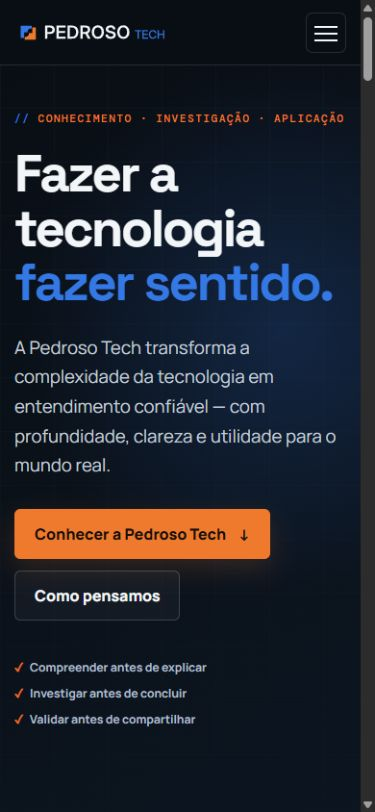
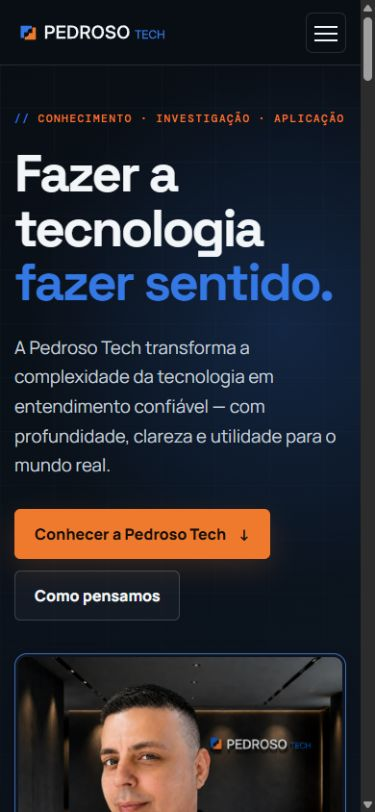
Polish responsive institutional portrait

Changed region(s): [[0.0293, 0.8005, 0.9387, 1.0]]

diff --git a/index.html b/index.html
@@ -3,19 +3,19 @@
 <meta charset="utf-8"><meta name="viewport" content="width=device-width, initial-scale=1">
 <title>Pedroso Tech | Tecnologia que faz sentido</title>
 <meta name="description" content="A Pedroso Tech transforma a complexidade da tecnologia em entendimento confiável, com investigação, conhecimento aplicado e recursos úteis."><meta name="author" content="Pedroso Tech"><meta name="theme-color" content="#090E14"><meta name="color-scheme" content="dark"><link rel="canonical" href="https://pedrosotech.com.br/">
-<meta property="og:type" content="website"><meta property="og:locale" content="pt_BR"><meta property="og:site_name" content="Pedroso Tech"><meta property="og:title" content="Pedroso Tech | Tecnologia que faz sentido"><meta property="og:description" content="Entendimento tecnológico confiável, claro e útil."><meta property="og:url" content="https://pedrosotech.com.br/"><meta property="og:image" content="https://pedrosotech.com.br/assets/leandro-pedroso-lobby.jpg"><meta name="twitter:card" content="summary_large_image"><meta name="twitter:title" content="Pedroso Tech | Tecnologia que faz sentido"><meta name="twitter:description" content="Entendimento tecnológico confiável, claro e útil."><meta name="twitter:image" content="https://pedrosotech.com.br/assets/leandro-pedroso-lobby.jpg">
-<link rel="icon" href="assets/pedroso-tech-signature.svg" type="image/svg+xml"><link rel="manifest" href="site.webmanifest"><link rel="stylesheet" href="styles.css?v=20260817c"><link rel="stylesheet" href="fixes.css?v=20260817c">
+<meta property="og:type" content="website"><meta property="og:locale" content="pt_BR"><meta property="og:site_name" content="Pedroso Tech"><meta property="og:title" content="Pedroso Tech | Tecnologia que faz sentido"><meta property="og:description" content="Entendimento tecnológico confiável, claro e útil."><meta property="og:url" content="https://pedrosotech.com.br/"><meta property="og:image" content="https://pedrosotech.com.br/assets/leandro-pedroso-hero.jpg"><meta name="twitter:card" content="summary_large_image"><meta name="twitter:title" content="Pedroso Tech | Tecnologia que faz sentido"><meta name="twitter:description" content="Entendimento tecnológico confiável, claro e útil."><meta name="twitter:image" content="https://pedrosotech.com.br/assets/leandro-pedroso-hero.jpg">
+<link rel="icon" href="assets/pedroso-tech-signature.svg" type="image/svg+xml"><link rel="manifest" href="site.webmanifest"><link rel="stylesheet" href="styles.css?v=20260817c"><link rel="stylesheet" href="fixes.css?v=20260817d">
 <script type="application/ld+json">{"@context":"https://schema.org","@type":"Organization","name":"Pedroso Tech","url":"https://pedrosotech.com.br/","description":"Marca independente de tecnologia dedicada a transformar assuntos complexos em entendimento confiável.","sameAs":["https://github.com/leopedroso84","https://instagram.com/leopedrosotech","https://facebook.com/profile.php?id=61593232645749"]}</script>
 </head><body>
-<a class="skip-link" href="#conteudo">Pular para o conteúdo</a><header class="header" id="topo"><div class="container header-inner"><a class="brand" href="#inicio" aria-label="Pedroso Tech, página inicial"><img src="assets/pedroso-tech-signature.svg" width="260" height="48" alt="Pedroso Tech"></a><button class="menu-toggle" type="button" aria-expanded="false" aria-controls="menu"><span></span><span></span><span></span><span class="sr-only">Abrir menu</span></button><nav class="nav" id="menu" aria-label="Navegação principal"><a href="#marca">Marca</a><a href="#territorios">Territórios</a><a href="#metodo">Método</a><a href="#principios">Princípios</a><a href="#leandro">Leandro</a><a class="nav-cta" href="#contato">Contato</a></nav></div></header>
+<a class="skip-link" href="#conteudo">Pular para o conteúdo</a><header class="header" id="topo"><div class="container header-inner"><a class="brand" href="#inicio" aria-label="Pedroso Tech, página inicial"><img src="assets/pedroso-tech-signature.svg" width="260" height="48" alt="Pedroso Tech"></a><button class="menu-toggle" type="button" aria-expanded="false" aria-controls="menu"><span></span><span></span><span></span><span class="sr-only">Abrir menu</span></button><nav class="nav" id="menu" aria-label="Navegação principal"><a href="#inicio">Início</a><a href="#marca">Marca</a><a href="#territorios">Territórios</a><a href="#metodo">Método</a><a href="#principios">Princípios</a><a href="#leandro">Leandro</a><a class="nav-cta" href="#contato">Contato</a></nav></div></header>
 <main id="conteudo">
-<section class="hero" id="inicio"><div class="gridline" aria-hidden="true"></div><div class="container hero-layout"><div class="hero-copy reveal"><p class="eyebrow">CONHECIMENTO · INVESTIGAÇÃO · APLICAÇÃO</p><h1>Fazer a tecnologia <span>fazer sentido.</span></h1><p class="lead">A Pedroso Tech transforma a complexidade da tecnologia em entendimento confiável — com profundidade, clareza e utilidade para o mundo real.</p><div class="actions"><a class="button primary" href="#marca">Conhecer a Pedroso Tech <span>↓</span></a><a class="button ghost" href="#metodo">Como pensamos</a></div><ul class="notes"><li>Compreender antes de explicar</li><li>Investigar antes de concluir</li><li>Validar antes de compartilhar</li></ul></div><div class="hero-visual reveal"><div class="photo-frame"><picture><source srcset="assets/leandro-pedroso-lobby.webp" type="image/webp"><img src="assets/leandro-pedroso-lobby.jpg" width="1200" height="1200" alt="Leandro Pedroso no lobby institucional da Pedroso Tech" fetchpriority="high"></picture></div><span class="corner">PT / 01<br><i>Institucional</i></span><div class="signal"><b>●</b><strong>Entendimento confiável</strong><small>tecnologia explicada com rigor</small></div></div></div></section>
+<section class="hero" id="inicio"><div class="gridline" aria-hidden="true"></div><div class="container hero-layout"><div class="hero-copy reveal"><p class="eyebrow">CONHECIMENTO · INVESTIGAÇÃO · APLICAÇÃO</p><h1>Fazer a tecnologia <span>fazer sentido.</span></h1><p class="lead">A Pedroso Tech transforma a complexidade da tecnologia em entendimento confiável — com profundidade, clareza e utilidade para o mundo real.</p><div class="actions"><a class="button primary" href="#marca">Conhecer a Pedroso Tech <span>↓</span></a><a class="button ghost" href="#metodo">Como pensamos</a></div></div><div class="hero-visual reveal"><figure class="photo-frame"><picture><source srcset="assets/leandro-pedroso-hero.webp" type="image/webp"><img src="assets/leandro-pedroso-hero.jpg" width="1600" height="1600" alt="Leandro Pedroso no lobby institucional da Pedroso Tech" fetchpriority="high" sizes="(max-width: 720px) calc(100vw - 48px), 520px"></picture><figcaption>Leandro Pedroso <span aria-hidden="true">·</span> Pedroso Tech</figcaption></figure></div><ul class="notes"><li>Compreender antes de explicar</li><li>Investigar antes de concluir</li><li>Validar antes de compartilhar</li></ul></div></section>
 <section class="section" id="marca"><div class="container"><div class="intro split"><div><p class="eyebrow">A ESSÊNCIA</p><h2>Tecnologia clara. Pensamento profundo.</h2></div><div><p>A Pedroso Tech é uma marca independente dedicada a desenvolver, organizar e compartilhar conhecimento e recursos que ajudem pessoas e organizações a compreender melhor a tecnologia, tomar decisões conscientes e aplicá-la de forma útil.</p><a class="text-link" href="#territorios">Explorar os territórios de atuação →</a></div></div><div class="cards purpose"><article><b>01</b><h3>Essência</h3><p>Fazer a tecnologia fazer sentido.</p></article><article><b>02</b><h3>Propósito</h3><p>Transformar a complexidade da tecnologia em entendimento confiável.</p></article><article><b>03</b><h3>Promessa</h3><p>Entendimento tecnológico claro, útil e responsável.</p></article></div></div></section>
 <section class="section surface" id="territorios"><div class="container"><div class="intro"><p class="eyebrow">TERRITÓRIOS DE ATUAÇÃO</p><h2>Conhecimento aplicado ao mundo real.</h2><p>Campos amplos de investigação e aplicação — não uma lista genérica de serviços.</p></div><div class="territories"><article><b>01</b><h3>Tecnologia aplicada</h3><p>Funcionamento, relações, impactos e aplicações do cotidiano tecnológico.</p></article><article><b>02</b><h3>Infraestrutura e conectividade</h3><p>Internet, redes, comunicação, equipamentos e serviços relacionados.</p></article><article><b>03</b><h3>Suporte e diagnóstico</h3><p>Investigação de causas, resolução técnica, boas práticas e experiências reais.</p></article><article><b>04</b><h3>Sistemas e automação</h3><p>Software, integrações, ferramentas, processos digitais e soluções automatizadas.</p></article><article><b>05</b><h3>Inteligência artificial aplicada</h3><p>Uso, funcionamento, limitações, ferramentas e experimentação responsável.</p></article><article><b>06</b><h3>Projetos e documentação</h3><p>Recursos próprios que materializam conhecimento técnico com utilidade.</p></article></div></div></section>
 <section class="section editorial"><div class="container editorial-layout"><div><p class="eyebrow">PILARES EDITORIAIS</p><h2>Uma forma mais responsável de produzir tecnologia.</h2><p>O formato acompanha o assunto: conteúdo, pesquisa, documentação, ferramenta ou projeto — sempre com contribuição real.</p></div><ol class="pillars"><li><strong>Entender</strong><span>Explicar como tecnologias, sistemas e processos funcionam.</span></li><li><strong>Investigar</strong><span>Analisar causas, comportamentos, limitações e fenômenos.</span></li><li><strong>Aplicar</strong><span>Mostrar usos, decisões, configurações e boas práticas.</span></li><li><strong>Experimentar</strong><span>Construir testes, automações, ferramentas e aprendizados práticos.</span></li><li><strong>Evoluir</strong><span>Acompanhar mudanças relevantes com contexto e análise.</span></li></ol></div></section>
 <section class="section method" id="metodo"><div class="container"><div class="intro"><p class="eyebrow">MÉTODO PEDROSO TECH</p><h2>Da curiosidade ao entendimento confiável.</h2><p>Um método explícito para evitar conclusões superficiais e tornar conhecimento técnico mais útil.</p></div><ol class="method-path"><li><b>01</b><strong>Compreender</strong></li><li><b>02</b><strong>Investigar</strong></li><li><b>03</b><strong>Conectar</strong></li><li><b>04</b><strong>Experimentar</strong></li><li><b>05</b><strong>Validar</strong></li><li><b>06</b><strong>Transformar</strong></li></ol></div></section>
 <section class="section" id="principios"><div class="container"><div class="intro"><p class="eyebrow">PRINCÍPIOS INEGOCIÁVEIS</p><h2>Confiança é construída antes de ser comunicada.</h2></div><div class="cards principles"><article><b>↗</b><h3>Profundidade antes de velocidade</h3><p>Chegar depois é aceitável quando significa compreender melhor.</p></article><article><b>◌</b><h3>Rigor técnico</h3><p>Verificar informações, separar evidência de suposição e reconhecer limites.</p></article><article><b>≡</b><h3>Clareza</h3><p>Tornar compreensível sem empobrecer ou distorcer.</p></article><article><b>⌁</b><h3>Independência</h3><p>Preservar a confiança acima de tendências e interesses financeiros.</p></article></div></div></section>
-<section class="section surface" id="leandro"><div class="container person"><div class="person-image"><picture><source srcset="assets/leandro-pedroso-lobby.webp" type="image/webp"><img src="assets/leandro-pedroso-lobby.jpg" width="1200" height="1200" alt="Retrato institucional de Leandro Pedroso"></picture><span>Leandro Pedroso<br><i>Por trás da Pedroso Tech</i></span></div><div><p class="eyebrow">QUEM ESTÁ POR TRÁS</p><h2>Uma marca com proximidade, sem depender de exposição pessoal.</h2><p>Leandro Pedroso conecta investigação, prática e comunicação clara para transformar desafios tecnológicos em entendimento útil. O foco permanece no conhecimento que a Pedroso Tech constrói e compartilha.</p><a class="button outline" href="https://github.com/leopedroso84" target="_blank" rel="noopener noreferrer">Conhecer projetos no GitHub ↗</a></div></div></section>
+<section class="section surface" id="leandro"><div class="container person"><div class="person-image"><picture><source srcset="assets/leandro-pedroso-profile.webp" type="image/webp"><img src="assets/leandro-pedroso-hero.jpg" width="1600" height="1600" alt="Retrato institucional de Leandro Pedroso" loading="lazy" sizes="(max-width: 720px) calc(100vw - 48px), 520px"></picture><span>Leandro Pedroso<br><i>Por trás da Pedroso Tech</i></span></div><div><p class="eyebrow">QUEM ESTÁ POR TRÁS</p><h2>Uma marca com proximidade, sem depender de exposição pessoal.</h2><p>Leandro Pedroso conecta investigação, prática e comunicação clara para transformar desafios tecnológicos em entendimento útil. O foco permanece no conhecimento que a Pedroso Tech constrói e compartilha.</p><a class="button outline" href="https://github.com/leopedroso84" target="_blank" rel="noopener noreferrer">Conhecer projetos no GitHub ↗</a></div></div></section>
 <section class="section editorial"><div class="container"><div class="intro split"><div><p class="eyebrow">ECOSSISTEMA</p><h2>Onde o conhecimento continua.</h2></div><p>Redes são canais de descoberta e relacionamento. Projetos, documentação e recursos próprios formam uma presença digital mais duradoura.</p></div><div class="channels"><a href="https://github.com/leopedroso84" target="_blank" rel="noopener noreferrer"><span>01 / GitHub</span><strong>Projetos e recursos técnicos</strong><i>↗</i></a><a href="https://instagram.com/leopedrosotech" target="_blank" rel="noopener noreferrer"><span>02 / Instagram</span><strong>@leopedrosotech</strong><i>↗</i></a><a href="https://facebook.com/profile.php?id=61593232645749" target="_blank" rel="noopener noreferrer"><span>03 / Facebook</span><strong>Pedroso Tech</strong><i>↗</i></a></div></div></section>
 <section class="section contact" id="contato"><div class="gridline" aria-hidden="true"></div><div class="container contact-copy"><p class="eyebrow">CONTATO</p><h2>Uma conversa pode<br>começar por aqui.</h2><p>Para assuntos institucionais, projetos e parcerias, escolha um dos canais oficiais.</p><div class="actions"><a class="button primary" href="mailto:contato@pedrosotech.com.br" aria-label="Enviar e-mail para a Pedroso Tech">E-mail <span>↗</span></a><a class="button ghost" href="https://wa.me/551736349105" target="_blank" rel="noopener noreferrer" aria-label="Falar com a Pedroso Tech pelo WhatsApp">WhatsApp <span>↗</span></a></div></div></section>
-</main><footer class="footer"><div class="container footer-grid"><img src="assets/pedroso-tech-signature.svg" width="208" height="38" alt="Pedroso Tech"><p>Entendimento tecnológico confiável, claro e útil.</p><div><a href="privacidade.html">Política de Privacidade</a><a href="#topo">Voltar ao topo</a></div><small>© <span id="year"></span> Pedroso Tech. Todos os direitos reservados.</small></div></footer><script src="script.js?v=20260817c"></script></body></html>
+</main><footer class="footer"><div class="container footer-grid"><img src="assets/pedroso-tech-signature.svg" width="208" height="38" alt="Pedroso Tech"><p>Entendimento tecnológico confiável, claro e útil.</p><div><a href="privacidade.html">Política de Privacidade</a><a href="#topo">Voltar ao topo</a></div><small>© <span id="year"></span> Pedroso Tech. Todos os direitos reservados.</small></div></footer><script src="script.js?v=20260817d"></script></body></html>

diff --git a/fixes.css b/fixes.css
@@ -1,3 +1,31 @@
-.photo-frame { aspect-ratio: 1 / 1.1; }
-.photo-frame img { width: 100%; height: 100%; object-fit: cover; }
-.person-image img { width: 100%; height: 100%; object-fit: cover; }
+/* Portrait treatment: the approved image leads, without template-like overlays. */
+.corner,.signal{display:none!important}
+.hero-visual{max-width:520px;isolation:isolate}
+.hero-visual::before{content:"";position:absolute;z-index:0;inset:18px -18px -18px 18px;border:1px solid rgba(52,120,229,.28);border-radius:18px;background:linear-gradient(145deg,rgba(52,120,229,.1),rgba(52,120,229,.015))}
+.photo-frame{position:relative;z-index:1;margin:0;overflow:visible;aspect-ratio:auto;border:0;border-radius:0;background:transparent;box-shadow:none}
+.photo-frame picture{display:block;padding:5px;border:1px solid rgba(85,145,238,.72);border-radius:16px;background:#0d141e;box-shadow:0 28px 70px rgba(0,0,0,.34)}
+.photo-frame img{width:100%;height:auto;aspect-ratio:1;object-fit:cover;border-radius:11px;background:#0d141e}
+.photo-frame figcaption{margin:11px 2px 0;color:#aebdcb;font:500 .67rem "DM Mono",monospace;letter-spacing:.06em;text-transform:uppercase}
+.photo-frame figcaption span{color:var(--orange)}
+.person-image img{width:100%;height:100%;object-fit:cover}
+
+@media(min-width:971px){
+  .hero-layout{grid-template-areas:"copy visual" "notes visual";grid-template-rows:auto auto}
+  .hero-copy{grid-area:copy;align-self:end}
+  .hero-visual{grid-area:visual}
+  .hero-layout>.notes{grid-area:notes;align-self:start;margin-top:20px}
+}
+
+@media(max-width:970px){
+  .hero-visual{margin-left:0}
+}
+
+@media(max-width:720px){
+  .hero-layout{gap:34px}
+  .hero-visual{width:100%;max-width:none;margin:0}
+  .hero-visual::before{display:none}
+  .photo-frame picture{padding:3px;border-radius:13px;box-shadow:0 22px 52px rgba(0,0,0,.3)}
+  .photo-frame img{border-radius:9px}
+  .photo-frame figcaption{margin-top:9px;font-size:.62rem}
+  .hero-layout>.notes{margin-top:-13px}
+}
